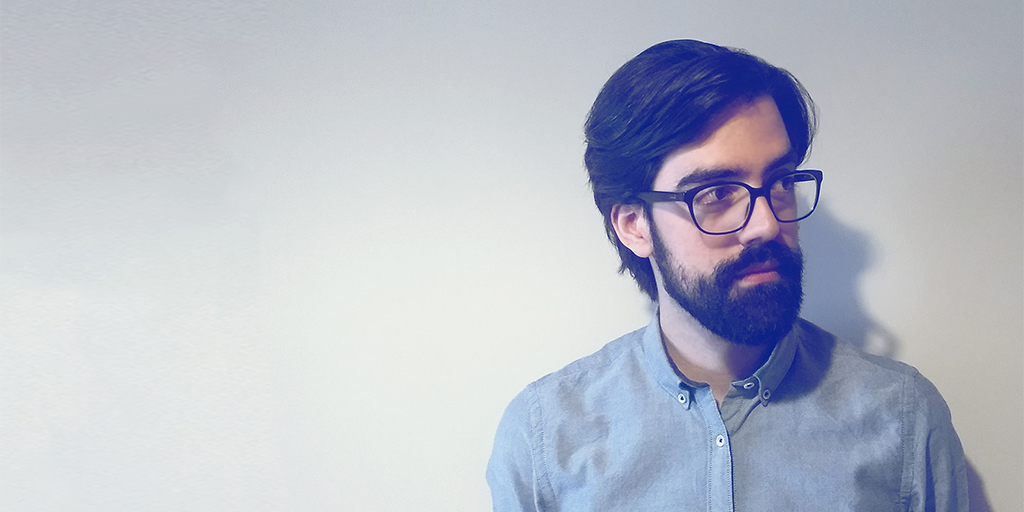
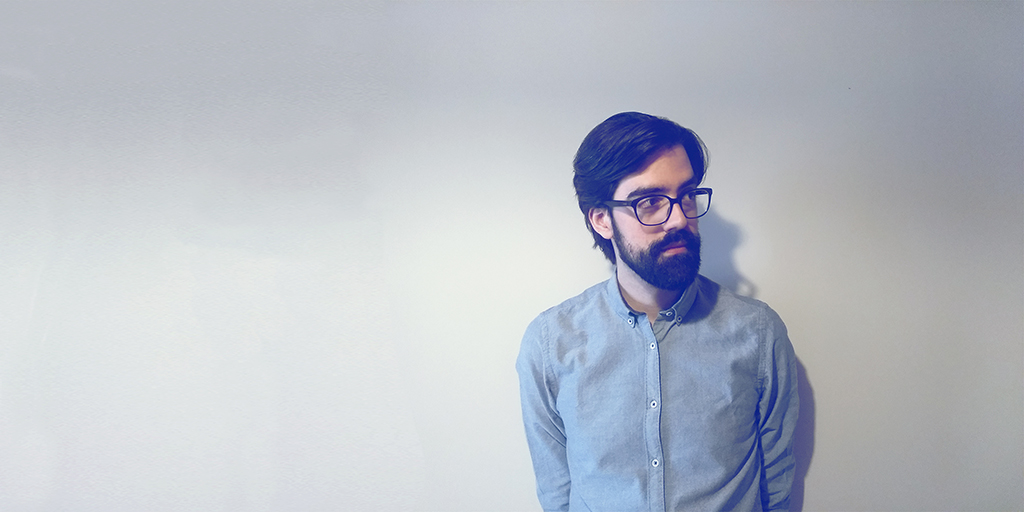
Changed homepage thumbnail.

diff --git a/layouts/partials/header.html b/layouts/partials/header.html
@@ -679,6 +679,8 @@ h1 {
 
 .sidenote-container + h1,
 .highlight + h1,
+noscript + h1,
+figure + h1,
 img + h1,
 ol + h1,
 p + h1,
@@ -689,6 +691,8 @@ ul + h1 {
 
 .font-load-1 .sidenote-container + h1,
 .font-load-1 .highlight + h1,
+.font-load-1 noscript + h1,
+.font-load-1 figure + h1,
 .font-load-1 img + h1,
 .font-load-1 ol + h1,
 .font-load-1 p + h1,
@@ -699,6 +703,8 @@ ul + h1 {
 
 .font-load-1 .sidenote-container + h2,
 .font-load-1 .highlight + h2,
+.font-load-1 noscript + h2,
+.font-load-1 figure + h2,
 .font-load-1 img + h2,
 .font-load-1 ol + h2,
 .font-load-1 p + h2,
@@ -725,6 +731,8 @@ h2 {
 
 .sidenote-container + h2,
 .highlight + h2,
+noscript + h2,
+figure + h2,
 img + h2,
 ol + h2,
 p + h2 {
@@ -753,6 +761,8 @@ h3 {
 
 .sidenote-container + h3,
 .highlight + h3,
+noscript + h3,
+figure + h3,
 img + h3,
 ol + h3,
 p + h3 {
@@ -762,6 +772,8 @@ p + h3 {
 
 .font-load-1 .sidenote-container + h3,
 .font-load-1 .highlight + h3,
+.font-load-1 noscript + h3,
+.font-load-1 figure + h3,
 .font-load-1 img + h3,
 .font-load-1 ol + h3,
 .font-load-1 p + h3 {
@@ -781,6 +793,8 @@ h4 {
 
 .sidenote-container + h4,
 .highlight + h4,
+noscript + h4,
+figure + h4,
 img + h4,
 ol + h4,
 p + h4 {
@@ -790,6 +804,8 @@ p + h4 {
 
 .font-load-1 .sidenote-container + h4,
 .font-load-1 .highlight + h4,
+.font-load-1 noscript + h4,
+.font-load-1 figure + h4,
 .font-load-1 img + h4,
 .font-load-1 ol + h4,
 .font-load-1 p + h4 {
@@ -817,6 +833,8 @@ h5 {
 
 .sidenote-container + h5,
 .highlight + h5,
+noscript + h5,
+figure + h5,
 img + h5,
 ol + h5,
 p + h5 {
@@ -826,6 +844,8 @@ p + h5 {
 
 .font-load-1 .sidenote-container + h5,
 .font-load-1 .highlight + h5,
+.font-load-1 noscript + h5,
+.font-load-1 figure + h5,
 .font-load-1 img + h5,
 .font-load-1 ol + h5,
 .font-load-1 p + h5 {
@@ -848,6 +868,8 @@ h6,
 
 .sidenote-container + h6,
 .highlight + h6,
+noscript + h6,
+figure + h6,
 img + h6,
 ol + h6,
 p + h6 {
@@ -857,6 +879,8 @@ p + h6 {
 
 .font-load-1 .sidenote-container + h6,
 .font-load-1 .highlight + h6,
+.font-load-1 noscript + h6,
+.font-load-1 figure + h6,
 .font-load-1 img + h6,
 .font-load-1 ol + h6,
 .font-load-1 p + h6 {

diff --git a/content/_index.md b/content/_index.md
@@ -15,4 +15,4 @@ date: "2018-02-07 20:31:00+01:00"
 
 Software engineer and researcher. Co-founded two tech startups, published four
 research papers, and spoken at various conferences around the globe. [More about
-me »](/about-me)
+me »](/about)

diff --git a/content/posts/about.md b/content/posts/about.md
@@ -1,5 +1,6 @@
 ---
 title: "About me"
+slug: "about"
 image: "thumbnail/ed-duarte.jpg"
 hidden: true
 ---
